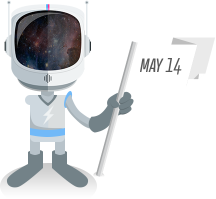
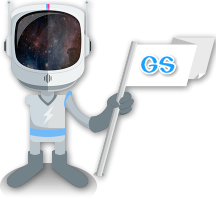
before refactoring to 1.0

diff --git a/gradient.systems/index.html b/gradient.systems/index.html
@@ -3,7 +3,6 @@
     <head>
         <title>GradientSystems - AI On-Chain ecosystem</title>
         <meta charset="utf-8">
-        <meta name="description" content="iStrategyLabs is hosting an intergalactic portfolio review for the DC creative community in their Dupont Circle headquarters on May 14, 2013.">
         <meta name="viewport" content="width=device-width, initial-scale=1.0">
         <link rel="stylesheet" href="css/main.css">
         <script src="js/ndk4udu.js"></script>
@@ -23,6 +22,7 @@
         <div class="container">
             <header id="top">
                 <h1>Gradient Systems</h1>
+                <h3>AI On-Chain ecosystem</h3>
                 <a href="http://t.me/gradientsystems" class="button"><span>Join The Telegram!</span></a>
                 <div class="triangles">
                     <a href="#moon">
@@ -46,7 +46,7 @@
             <div class="container">
                 <section class="moon">
                         <article class="introduction">
-                            <h2 id="moon">AI Ecosystem <br>On any blockchain.</h2>
+                            <h2 id="moon">AI Ecosystem <br>on any blockchain.</h2>
                             <p>The creative cyborgs at <a href="http://www.behance.net/istrategylabs" target="_blank">iStrategyLabs</a> are hosting an intergalactic portfolio review at our HQ at <a href="http://goo.gl/maps/29rm6" target="_blank">1630 Connecticut Ave.</a> in Washington DC... and you are invited! Here's what you need to know:</p>
                             <div class="mooninfo" id="everyone">
                                 <h3>All Your Portfolio Are Belong To Us</h3>

diff --git a/gradient.systems/css/main.css b/gradient.systems/css/main.css
@@ -486,17 +486,17 @@ a.backtotop:hover {
 }
 
 a.button {
-  box-shadow: 0px 4px 0px #96004e;
+  box-shadow: 0px 4px 0px #0079e3;
   color: white;
   font-weight: 500;
   font-family: "atrament-web", "helvetica neue", helvetica, arial, sans-serif;
   text-decoration: none;
-  text-shadow: 0px 2px 0px #e30076;
+  text-shadow: 0px 2px 0px #0079e3;
   font-style: italic;
   text-transform: uppercase;
   text-align: center;
   font-size: 1.4em;
-  background: #ff43a5;
+  background: #42bdff;
   display: inline-block;
   vertical-align: baseline;
   zoom: 1;
